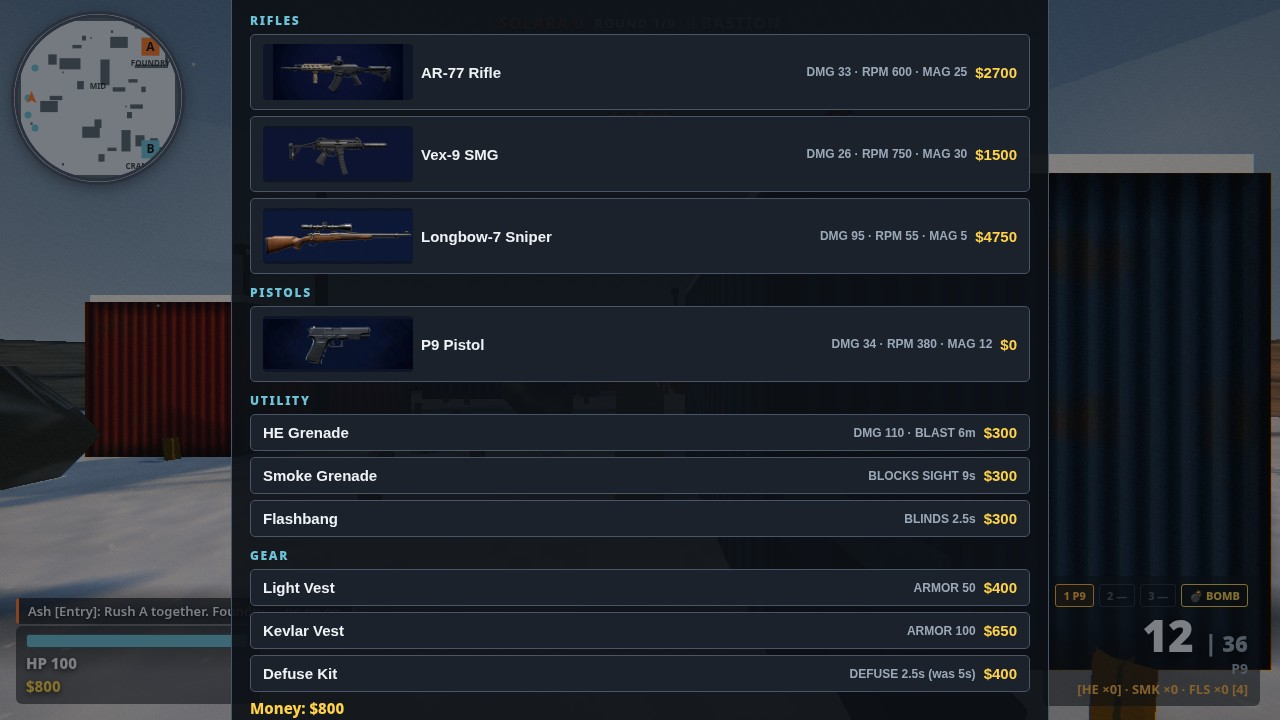
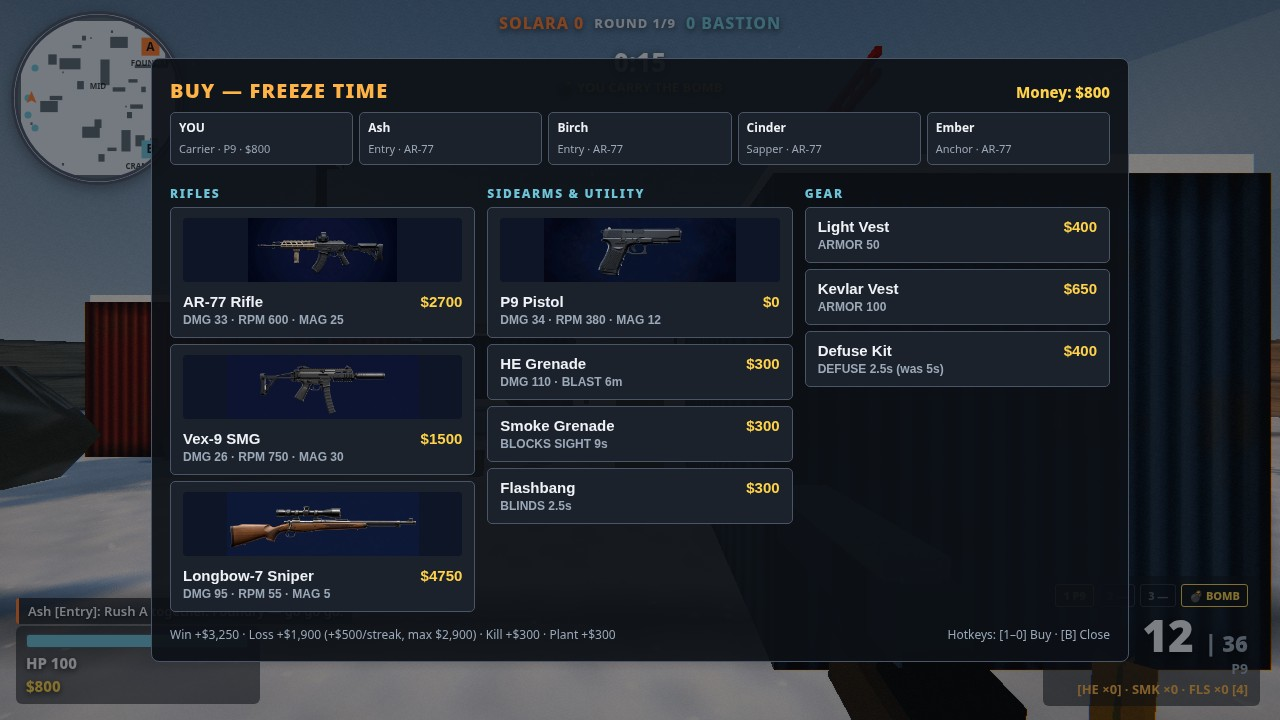
buy menu: 3-column armory grid with squad row + economy footer (v3.3)
- Grid layout like the reference: RIFLES | SIDEARMS & UTILITY | GEAR
- Weapon cards with generated side-profile images, price top-right
- Squad row: YOU + 4 Solara bots (real names, roles, weapons)
- Economy footer with real sim numbers (Win +3250, Loss 1900+500/streak max 2900, Kill/Plant +300)
- Squad row refreshes every frame while menu is open (bots only cached after first update)

diff --git a/game/src/hud.js b/game/src/hud.js
@@ -74,11 +74,15 @@ export class HUD {
     // --- Buy menu (backdrop dims the bright snow behind it) ---
     this.buyBackdrop = el('div', 'buy-backdrop hidden', this.root);
     this.buy = el('div', 'buy hidden', this.root);
-    el('div', 'buy-title', this.buy).textContent = 'BUY — FREEZE TIME';
-    this.buyItems = el('div', 'buy-items', this.buy);
-    this.buyMoney = el('div', 'buy-money', this.buy);
+    const buyHead = el('div', 'buy-head', this.buy);
+    el('div', 'buy-title', buyHead).textContent = 'BUY — FREEZE TIME';
+    this.buyMoney = el('div', 'buy-money', buyHead);
+    this.buySquad = el('div', 'buy-squad', this.buy);
+    this.buyItems = el('div', 'buy-grid', this.buy);
     this._buildBuy();
-    el('div', 'buy-hint', this.buy).textContent = 'Press B to close · Click an item to buy';
+    const buyFoot = el('div', 'buy-foot', this.buy);
+    el('div', 'buy-econ', buyFoot).textContent = 'Win +$3,250 · Loss +$1,900 (+$500/streak, max $2,900) · Kill +$300 · Plant +$300';
+    el('div', 'buy-hint', buyFoot).textContent = 'Hotkeys: [1–0] Buy · [B] Close';
     // --- Start / end overlays ---
     this.startOverlay = el('div', 'overlay', this.root);
     this.startOverlay.innerHTML = `<h1>FROSTLINE</h1>
@@ -92,16 +96,17 @@ export class HUD {
     this._lastBanner = '';
   }
   _buildBuy() {
-    const sections = [
+    // Three-column grid like the reference armory: rifles | sidearms & utility | gear.
+    const columns = [
       ['RIFLES', [['ar77', 'AR-77 Rifle'], ['vex9', 'Vex-9 SMG'], ['longbow', 'Longbow-7 Sniper']]],
-      ['PISTOLS', [['p9', 'P9 Pistol']]],
-      ['UTILITY', [['he', 'HE Grenade'], ['smoke', 'Smoke Grenade'], ['flash', 'Flashbang']]],
+      ['SIDEARMS & UTILITY', [['p9', 'P9 Pistol'], ['he', 'HE Grenade'], ['smoke', 'Smoke Grenade'], ['flash', 'Flashbang']]],
       ['GEAR', [['vest', 'Light Vest'], ['armor', 'Kevlar Vest'], ['kit', 'Defuse Kit']]],
     ];
-    for (const [title, items] of sections) {
-      el('div', 'buy-section', this.buyItems).textContent = title;
+    for (const [title, items] of columns) {
+      const col = el('div', 'buy-col', this.buyItems);
+      el('div', 'buy-section', col).textContent = title;
       for (const [id, label] of items) {
-        const row = el('button', 'buy-item', this.buyItems);
+        const row = el('button', 'buy-item', col);
         row.dataset.id = id;
         row.dataset.label = label;
         row.addEventListener('click', () => {
@@ -116,6 +121,7 @@ export class HUD {
   }
   refreshBuy() {
     this.buyMoney.textContent = `Money: $${this.player.money}`;
+    this._refreshSquad();
     for (const row of this.buyItems.querySelectorAll('.buy-item')) {
       const id = row.dataset.id;
       const def = WEAPONS[id];
@@ -133,7 +139,7 @@ export class HUD {
         stats = `DMG ${def.damage} · RPM ${def.rpm} · MAG ${def.mag}`;
       }
       const icon = BUY_ICONS[id] ? `<img class="buy-img" src="assets/buy-icons/${BUY_ICONS[id]}.webp" alt="">` : '';
-      row.innerHTML = `${icon}<span class="buy-name"></span><span class="buy-stats"></span><span class="buy-price"></span>`;
+      row.innerHTML = `${icon}<div class="buy-card-top"><span class="buy-name"></span><span class="buy-price"></span></div><span class="buy-stats"></span>`;
       row.querySelector('.buy-name').textContent = row.dataset.label;
       row.querySelector('.buy-stats').textContent = stats;
       row.querySelector('.buy-price').textContent = `$${price}`;
@@ -248,7 +254,22 @@ export class HUD {
     g.beginPath(); g.arc(C, C, C - 2, 0, Math.PI * 2); g.stroke();
   }
 
+  // Squad row: You + the four Solara bots (real names, roles, weapons).
+  // Called on open and every frame while the menu is open, because bots are
+  // only cached once the game loop has run at least one update.
+  _refreshSquad() {
+    if (!this._bots) return;
+    const mates = [{ name: 'YOU', role: this.player.hasBomb ? 'Carrier' : 'Entry', weapon: this.player.weapon.def.name, money: this.player.money }];
+    for (const b of this._bots) {
+      if (b.team !== 'solara') continue;
+      mates.push({ name: b.name, role: b.role, weapon: WEAPONS[b.weapon] ? WEAPONS[b.weapon].name : b.weapon });
+    }
+    this.buySquad.innerHTML = mates.map((m) => `<div class="buy-mate"><b>${m.name}</b><span>${m.role} · ${m.weapon}${m.money !== undefined ? ` · $${m.money}` : ''}</span></div>`).join('');
+  }
+
   update(dt, bots, events) {
+    this._bots = bots; // cached so the buy menu can render the squad row.
+    if (this.buyOpen) this._refreshSquad();
     const p = this.player, s = this.sim;
     // Drain sim events.
     for (const e of events) {

diff --git a/game/index.html b/game/index.html
@@ -71,18 +71,27 @@
   .damagefx { position: absolute; inset: 0; box-shadow: inset 0 0 90px 30px rgba(224,60,50,.55); opacity: 0; transition: opacity .25s; }
   /* Buy menu */
   .buy-backdrop { position: absolute; inset: 0; background: rgba(10,13,18,.5); pointer-events: auto; }
-  .buy { position: absolute; left: 50%; top: 50%; transform: translate(-50%, -50%); width: 780px; background: rgba(13,17,23,.92); border: 1px solid #4a5568; border-radius: 8px; padding: 18px; pointer-events: auto; }
+  .buy { position: absolute; left: 50%; top: 50%; transform: translate(-50%, -50%); width: 940px; background: rgba(13,17,23,.92); border: 1px solid #4a5568; border-radius: 8px; padding: 18px; pointer-events: auto; }
+  .buy-head { display: flex; justify-content: space-between; align-items: baseline; }
   .buy-title { font-size: 20px; font-weight: 900; letter-spacing: .06em; color: #ffb347; margin-bottom: 4px; }
   .buy-money { font-size: 15px; font-weight: 800; color: #ffd24a; margin-bottom: 10px; }
+  .buy-squad { display: flex; gap: 6px; margin-bottom: 10px; }
+  .buy-mate { flex: 1; background: #1c222b; border: 1px solid #4a5568; border-radius: 5px; padding: 6px 8px; min-width: 0; }
+  .buy-mate b { display: block; font-size: 12px; color: #eef2f6; }
+  .buy-mate span { font-size: 11px; color: #9aa8b8; }
+  .buy-grid { display: grid; grid-template-columns: 1fr 1fr 1fr; gap: 12px; }
+  .buy-col { min-width: 0; }
   .buy-section { font-size: 12px; font-weight: 900; letter-spacing: .14em; color: #6fc3d8; margin: 10px 0 5px; }
-  .buy-item { display: flex; justify-content: space-between; align-items: center; gap: 8px; width: 100%; padding: 9px 12px; margin-bottom: 6px; background: #1c222b; color: #eef2f6; border: 1px solid #4a5568; border-radius: 5px; font-size: 15px; font-weight: 700; cursor: pointer; }
-  .buy-img { width: 150px; height: 56px; object-fit: contain; background: #0d1526; border-radius: 4px; flex-shrink: 0; }
+  .buy-item { display: block; width: 100%; padding: 10px 12px; margin-bottom: 6px; background: #1c222b; color: #eef2f6; border: 1px solid #4a5568; border-radius: 5px; font-size: 15px; font-weight: 700; cursor: pointer; text-align: left; }
   .buy-item:hover { border-color: #ffb347; background: #2a2013; }
   .buy-item.buy-owned { opacity: .55; }
+  .buy-img { width: 100%; height: 64px; object-fit: contain; background: #0d1526; border-radius: 4px; margin-bottom: 8px; }
+  .buy-card-top { display: flex; justify-content: space-between; align-items: baseline; gap: 8px; }
   .buy-name { text-align: left; }
-  .buy-stats { flex: 1; text-align: right; font-size: 12px; font-weight: 600; color: #9aa8b8; }
+  .buy-stats { display: block; font-size: 12px; font-weight: 600; color: #9aa8b8; margin-top: 3px; }
   .buy-price { color: #ffd24a; }
-  .buy-hint { font-size: 12px; color: #9aa8b8; margin-top: 8px; }
+  .buy-foot { display: flex; justify-content: space-between; gap: 12px; font-size: 12px; color: #9aa8b8; margin-top: 8px; }
+  .buy-hint { font-size: 12px; color: #9aa8b8; }
   /* Overlays */
   .overlay { position: absolute; inset: 0; background: rgba(10, 13, 18, .78); display: flex; flex-direction: column; align-items: center; justify-content: center; text-align: center; pointer-events: auto; }
   .overlay h1 { font-size: 64px; letter-spacing: .14em; margin: 0; color: #eef2f6; text-shadow: 0 4px 24px rgba(0,0,0,.8); }
